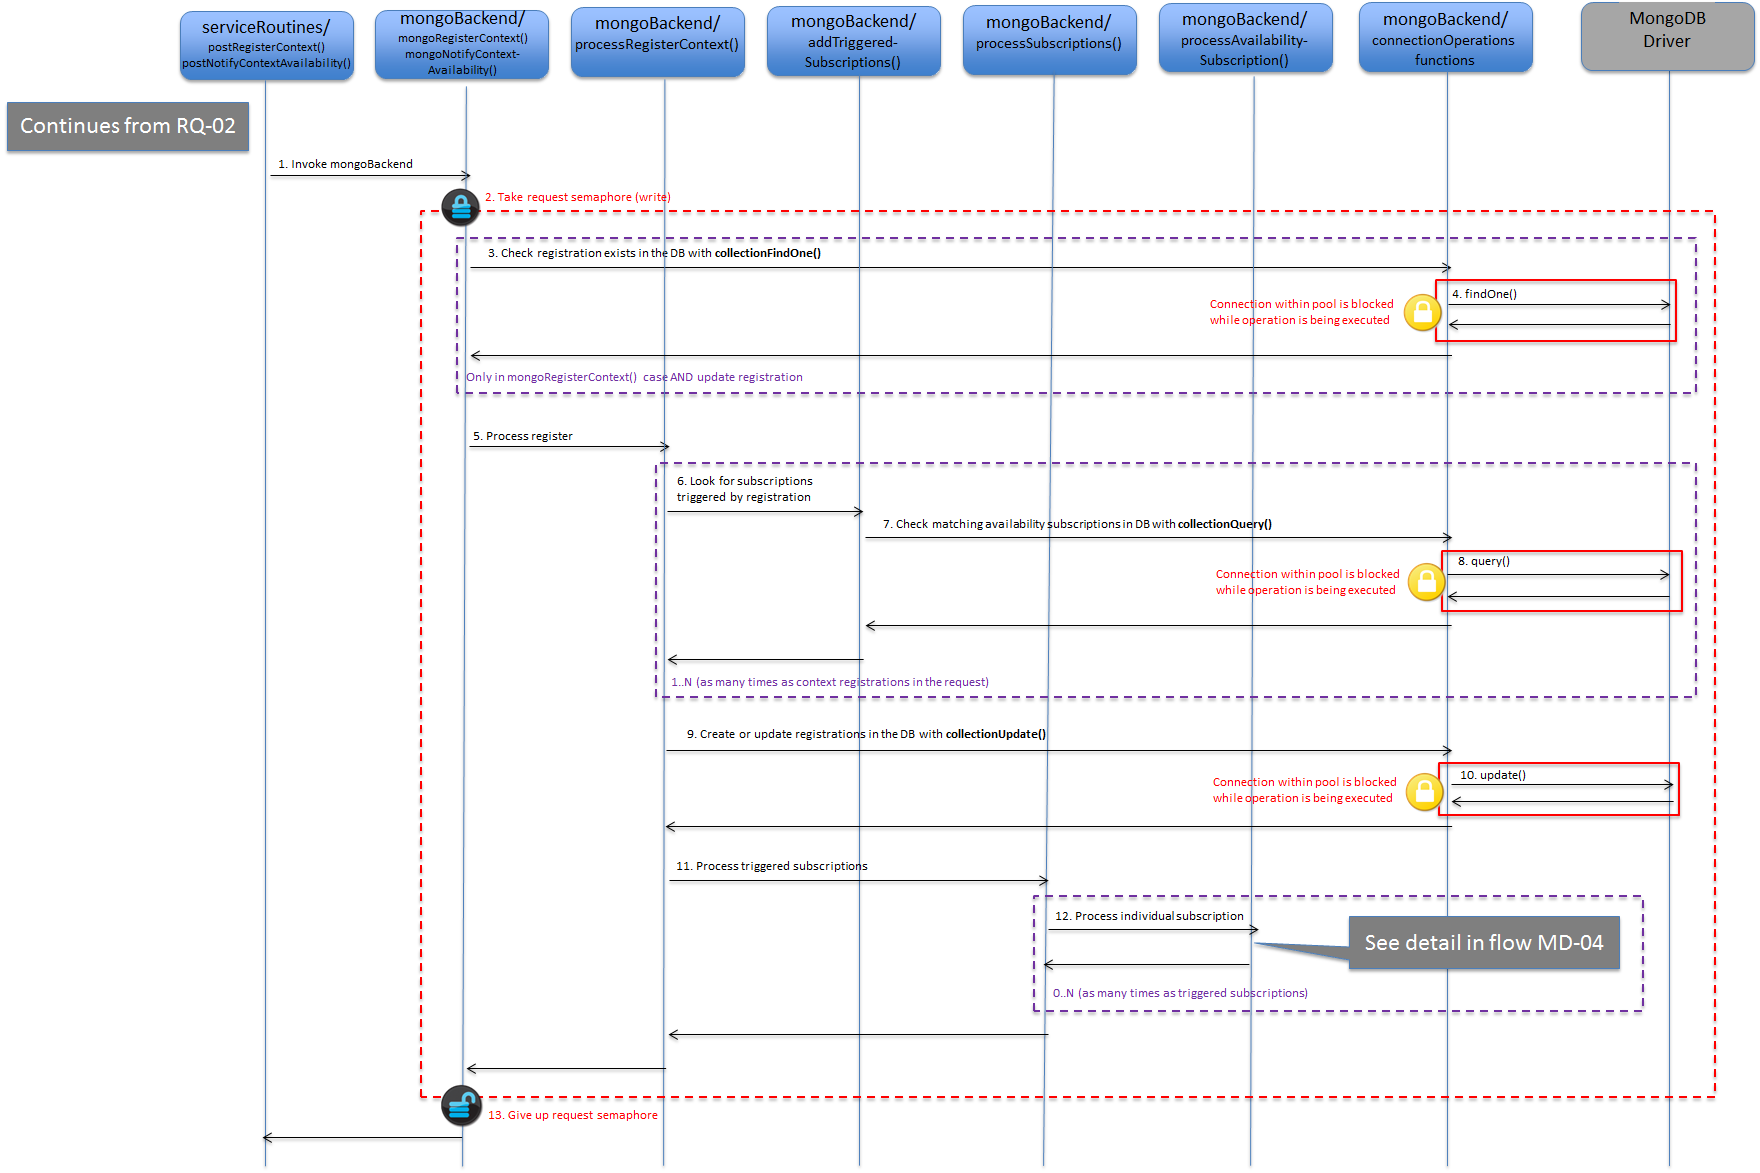
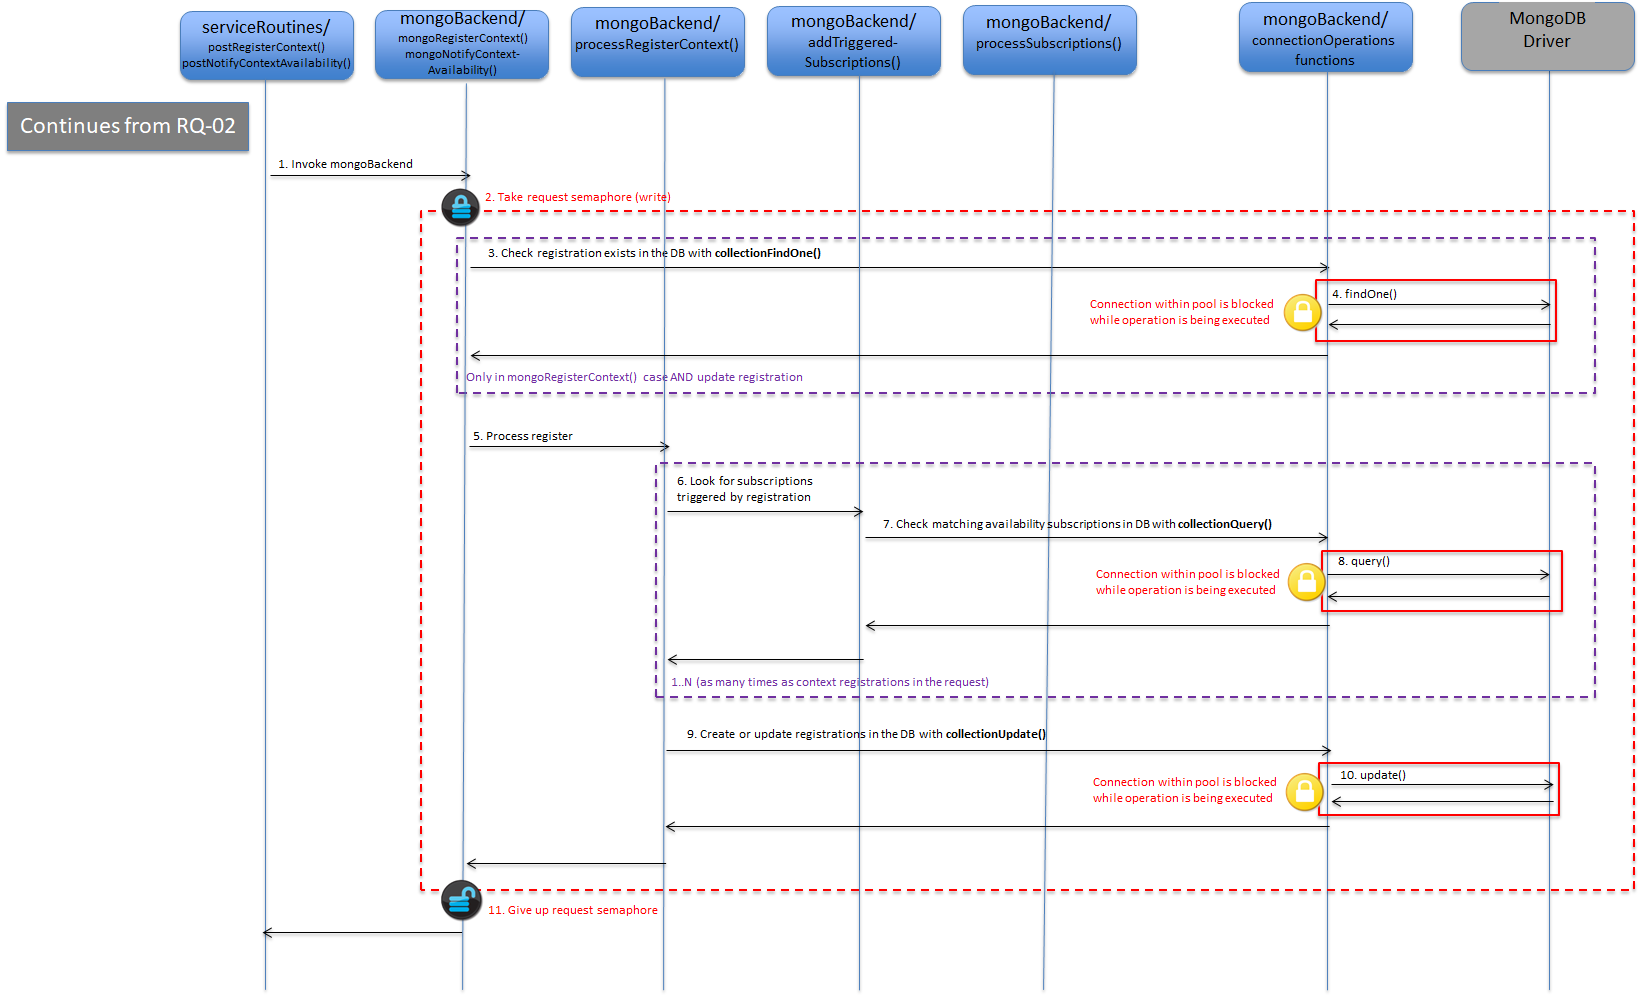
FIX devel manual

diff --git a/doc/manuals/devel/mongoBackend.md b/doc/manuals/devel/mongoBackend.md
@@ -493,7 +493,7 @@ _MB-18: mongoRegisterContext_
 * `processRegisterContext()` is called to process the registration (step 5).
 * For each registration in the request, `addTriggeredSubscriptions()` is called (step 6). This function in sequence uses `collectionQuery()` in the `connectionOperations` module in order to check whether the registration triggers a subscription or not (steps 7 and 8). The `subsToNotify` map is used to store the triggered subscriptions.
 * The `registration` document is created or updated in the database. In order to do so, `collectionUpdate()` in the `connectionOperations` module is used, setting the `upsert` parameter to `true` (steps 9 and 10).
-* If the request semaphore was taken in step 2, then it is released before returning (step 13).  
+* If the request semaphore was taken in step 2, then it is released before returning (step 11).
 
 [Top](#top)
 

diff --git a/doc/manuals/devel/flowsIndex.md b/doc/manuals/devel/flowsIndex.md
@@ -2,6 +2,9 @@
 
 This document provides an index of the different diagrams used in the development documentation.
 
+Note there is some gaps in the number sequences (for instance, between MB-19 an MB-23). This is due
+some diagrams were removed due to changes in Orion Context Broker functionality and it's fine.
+
 Related to request management (RQ management):
 
 * [RQ-01: Reception of a request](sourceCode.md#flow-rq-01)
